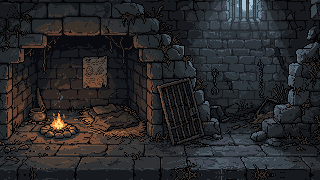
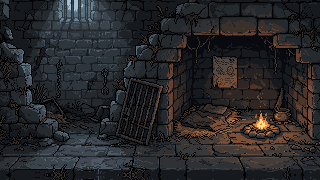
Vilan i fängelset spegelvänd: lägerelden framför sällskapet
Claude-Session: https://claude.ai/code/session_018ajE8D2FggpF2yZQRYB5KY

diff --git a/grafik.js b/grafik.js
@@ -418,7 +418,7 @@ const MARK_NER = { svartborgen1: 4, utanfor_gropen: 5, mt_kraknor1: 5, mt_krakno
 // Hur tätt hjältarna står (pixlar mellan dem). Vid klyftan står de tätare så att alla får plats på kanten.
 const HJ_STEG = { lager_oken1: 12, lager_oken2: 11, klyfta_ute: 9, klyfta_inne: 9, lager_ute: 12, lager_inne: 12, lager_inne2: 9 };
 // Var den första hjälten står (x i 160×90). Vid klyftan börjar de längre till vänster så att ingen hamnar över kanten.
-const HJ_START = { lager_fangelse: 40, lager_oken2: -3, klyfta_ute: -3, klyfta_inne: -3, lager_inne2: -3 };
+const HJ_START = { lager_fangelse: 30, lager_oken2: -3, klyfta_ute: -3, klyfta_inne: -3, lager_inne2: -3 };
 // Miljöer som använder den målade klyftan utomhus – övriga (grotta, kloak) får klyftan inomhus
 const KLYFTA_UTE = {riksvag40:1, batik:1, ostra_oknen:1,  doda_sjon:1, marmoracs_kyrkogard:1, harpybergen:1, mt_kraknor:1, slasbyskogen:1, gollenskogen:1, gravskogen:1, klippa_oken:1, klippa_ruin:1, boss_general:1, boss_dendroidmoder:1, boss_rovarhovding:1, port_ute:1, klippa:1, vatten_ute:1, boss_grip:1, boss_harpyor:1, boss_dodasjon:1, skog:1, berg:1, oken:1, ruin:1, gravfalt:1, trask:1, vesselberget:1, bududuoar:1, vag:1 };
 // Gåtan i sten: en förseglad dörr som stänger vägen, målad för varje sorts miljö
@@ -497,7 +497,7 @@ function ritaStenport(ctx, cx, fot, fro){
 // Värdshuset: elden i eldstaden (ingen rök, den går upp i skorstenen) och de fyra väggljusen
 const VARDSHUS_ELDAR = [ {x:105, y:114, s:9, inne:true},
   {x:45, y:17, ljus:true}, {x:166, y:17, ljus:true}, {x:224, y:17, ljus:true}, {x:315, y:17, ljus:true} ];
-const ELDAR = { lager_fangelse:{x:58, y:124, s:7}, lager_oken1:{x:165, y:133, s:9}, lager_oken2:{x:141, y:133, s:9}, lager_ute:{x:162, y:134, s:6}, lager_ute2:{x:160, y:153, s:9}, lager_inne:{x:160, y:134, s:9}, lager_inne2:{x:120, y:131, s:9} };
+const ELDAR = { lager_fangelse:{x:262, y:124, s:7}, lager_oken1:{x:165, y:133, s:9}, lager_oken2:{x:141, y:133, s:9}, lager_ute:{x:162, y:134, s:6}, lager_ute2:{x:160, y:153, s:9}, lager_inne:{x:160, y:134, s:9}, lager_inne2:{x:120, y:131, s:9} };
 const ELD = { senast:0, gnistor:[], rok:[] };
 function ritaEld(c, eldar, t){
   const x = c.getContext("2d"); x.clearRect(0, 0, 320, 180);

diff --git a/sw.js b/sw.js
@@ -1,7 +1,7 @@
 // Fantasyvärlden – service worker.
 // Egna filer: nätet först (så uppdateringar syns direkt), cachen som reserv när man är offline.
 // GitHub-API:t (sparfilen) cachas aldrig.
-const CACHE = "fantasyvarlden-v114";
+const CACHE = "fantasyvarlden-v115";
 const SHELL = ["./","./index.html","./spel.js","./regler.js","./varld.js","./hjaltar.js","./figurer.js","./fiendebilder.js","./bakgrund.js","./grafik.js","./manifest.json","./icons/icon-180.png","./icons/icon-192.png","./icons/icon-512.png"];
 self.addEventListener("install", e => { e.waitUntil(caches.open(CACHE).then(c => c.addAll(SHELL)).then(() => self.skipWaiting())); });
 self.addEventListener("activate", e => { e.waitUntil(caches.keys().then(k => Promise.all(k.filter(x => x !== CACHE).map(x => caches.delete(x)))).then(() => self.clients.claim())); });
